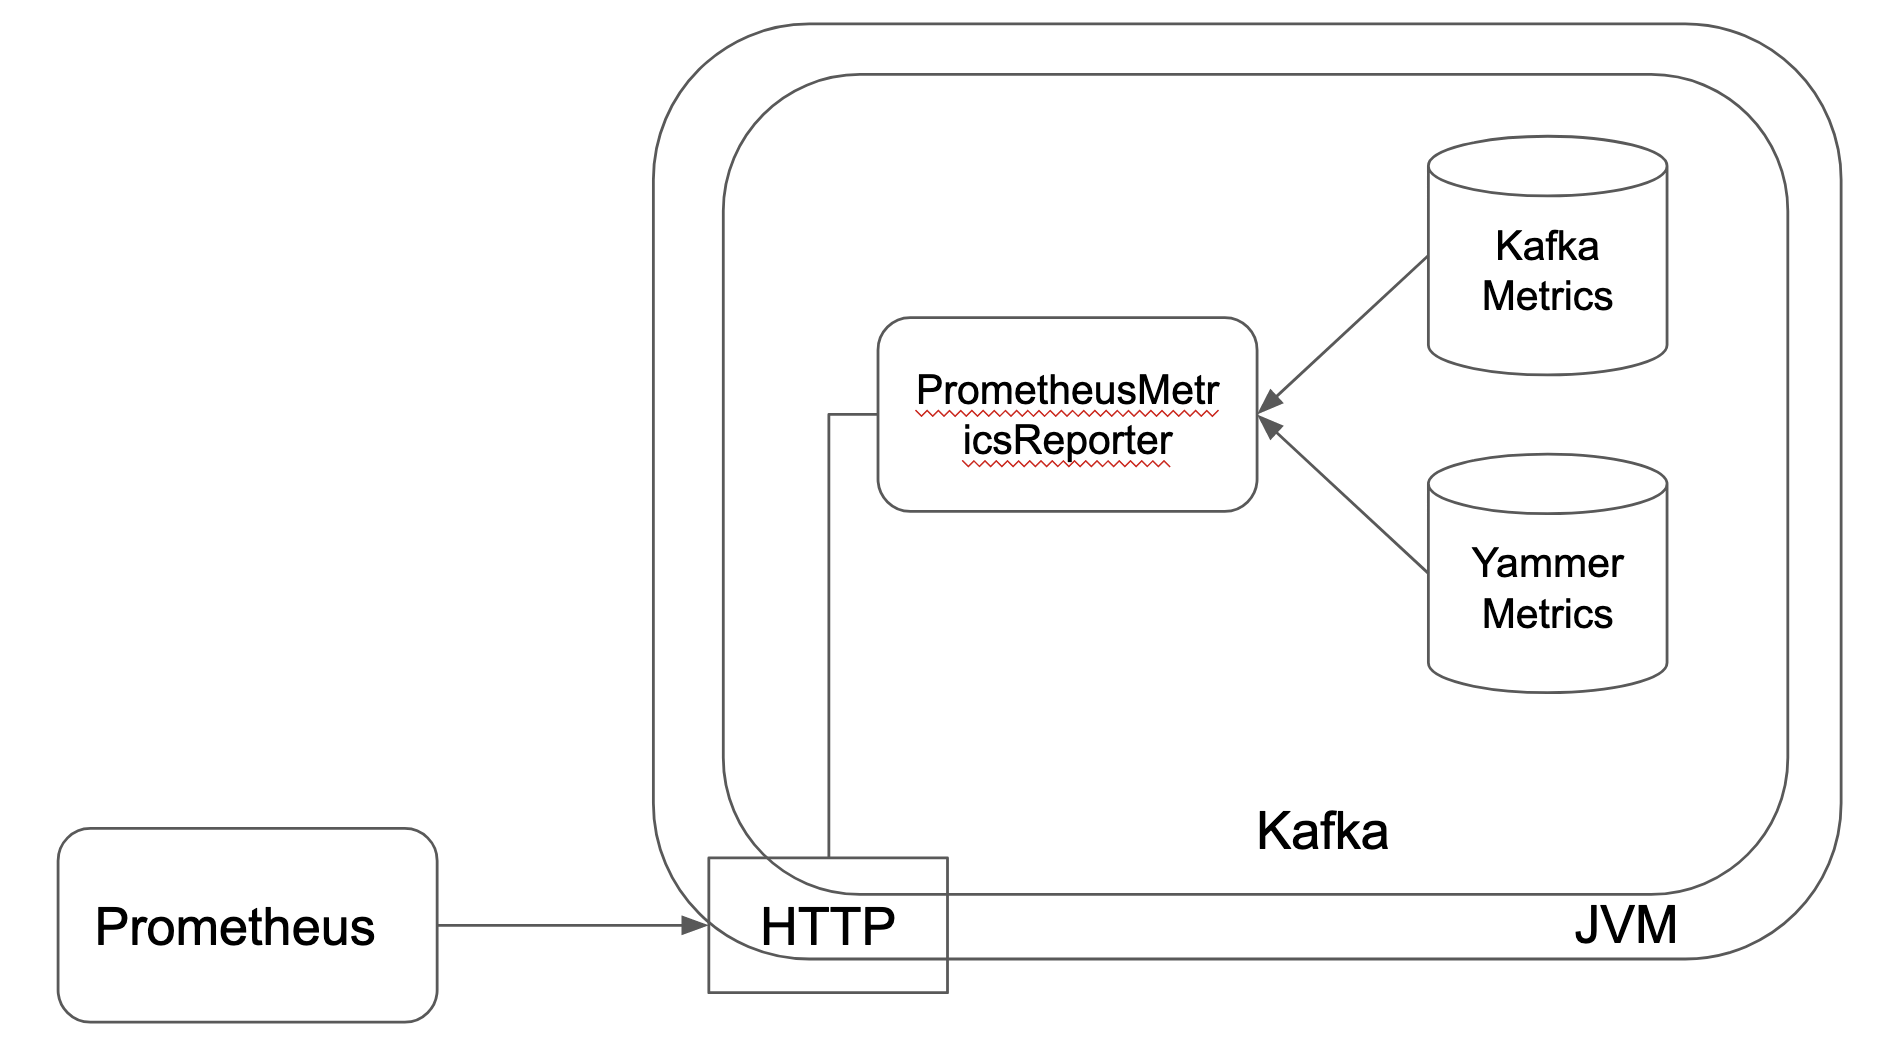
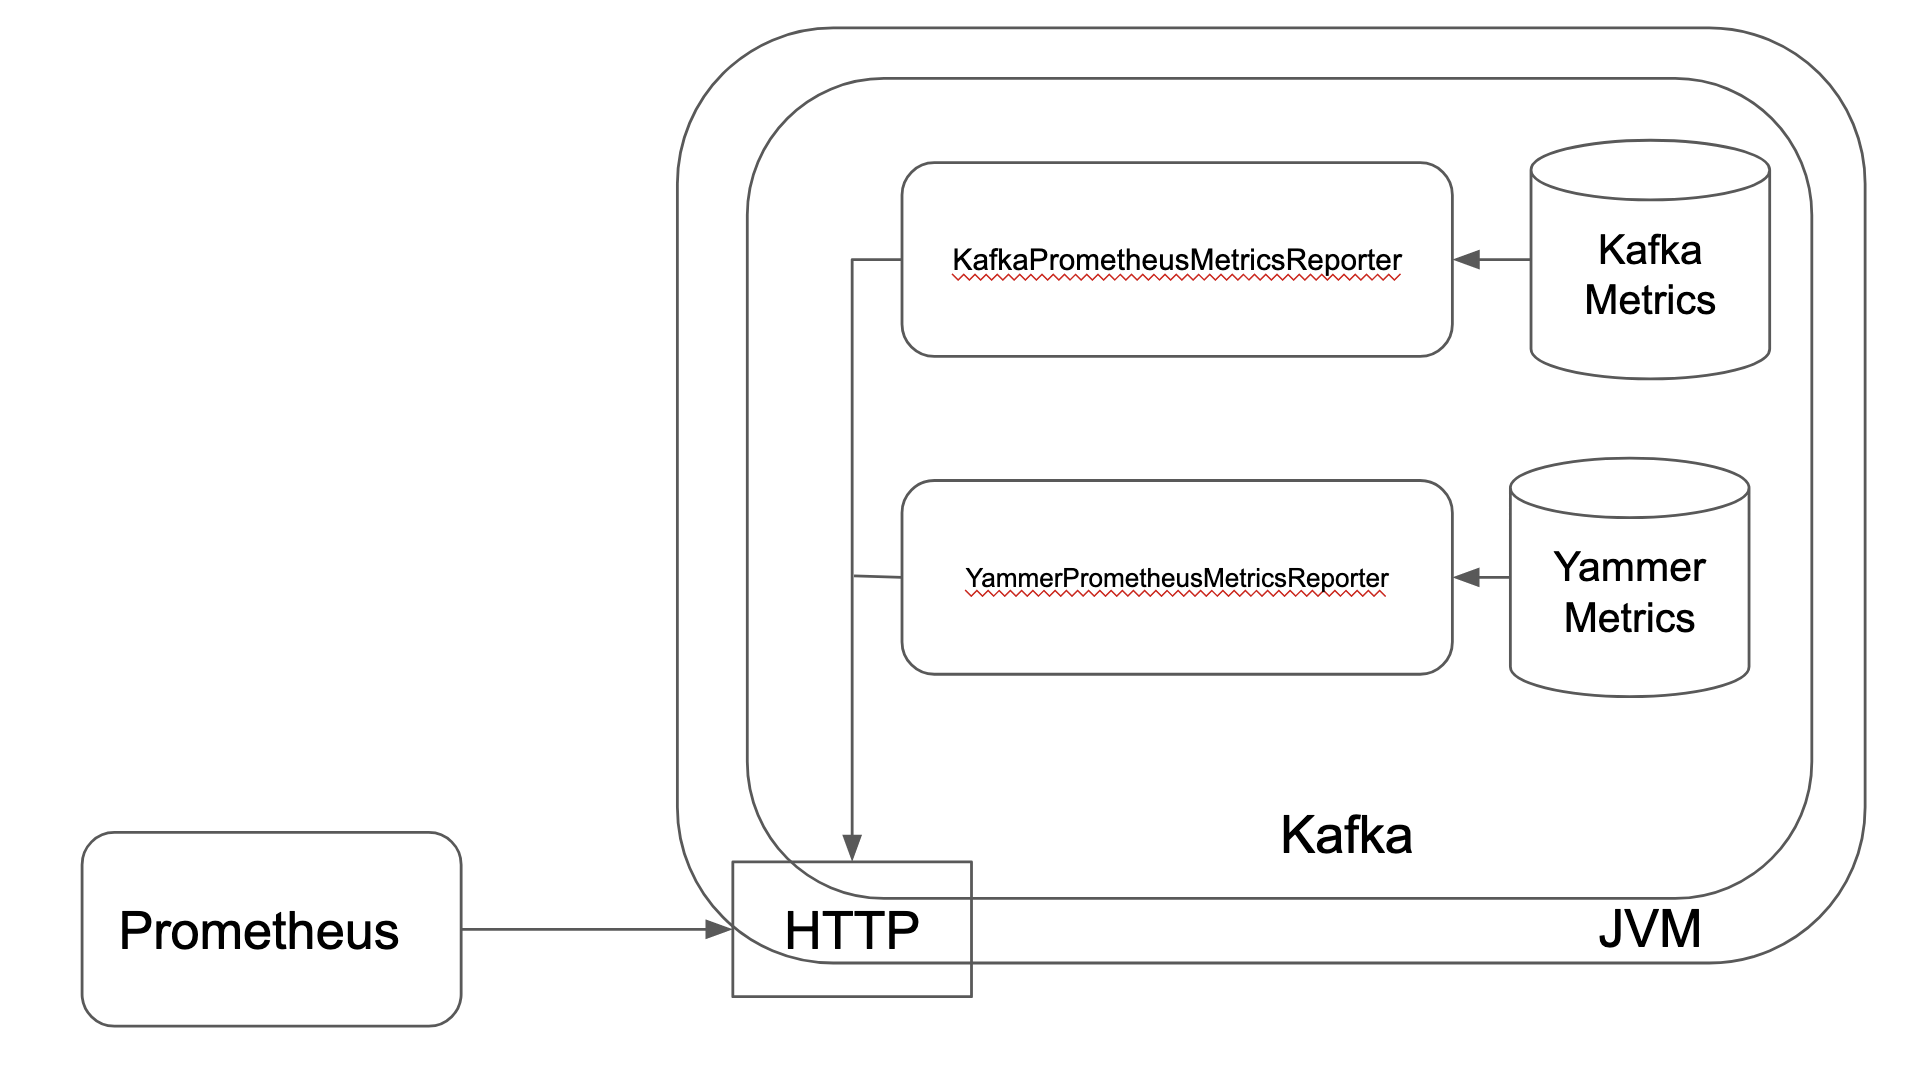
Address feedback from JS and KW

diff --git a/062-prometheus-metrics-reporter.md b/062-prometheus-metrics-reporter.md
@@ -11,11 +11,11 @@ Metrics are a critical aspect of monitoring Kafka. Today, this is the way metric
 - a home grown library, `org.apache.kafka.common.metrics`. We’ll refer to metrics created via this as _KafkaMetrics_. This is used on the client side and for common metrics on the server side too.
 - Yammer, `com.yammer.metrics.metrics-core`. This library is the predecessor of [Dropwizard](https://metrics.dropwizard.io/). We’ll refer to metrics created via this as _YammerMetrics_. This is only used on the broker side.
 
-For each type of metrics, Kafka exposes a reporter interface to expose metrics to monitoring systems. KafkaMetrics use [org.apache.kafka.common.metrics.MetricsReporter](https://kafka.apache.org/35/javadoc/org/apache/kafka/common/metrics/MetricsReporter.html) and YammerMetrics use `kafka.metrics.KafkaMetricsReporter` which is not officially part of the public API. Kafka has built-in metrics reporter implementations for JMX for both types.
+For each type of metrics, Kafka exposes a reporter interface to expose metrics to monitoring systems. KafkaMetrics use [org.apache.kafka.common.metrics.MetricsReporter](https://kafka.apache.org/36/javadoc/org/apache/kafka/common/metrics/MetricsReporter.html) and YammerMetrics use `kafka.metrics.KafkaMetricsReporter` which is not officially part of the public API. Kafka has built-in metrics reporter implementations for JMX for both types.
 
 At the moment Strimzi relies on these default JMX reporters and uses [jmx_exporter](https://github.com/prometheus/jmx_exporter) which is a Java agent that retrieves metrics via JMX and exposes them over an HTTP endpoint in the prometheus format. Then Prometheus is configured to scrape that endpoint to retrieve the Kafka metrics.
 
-![Current Situation](images/052-current.png)
+![Current Situation](images/062-current.png)
 
 - `org.apache.kafka.common.metrics.JmxReporter` is the reporter implementation for the Kafka Metrics.
 - `org.apache.kafka.server.metrics.FilteringJmxReporter` is the reporter implementation for the Yammer Metrics. It’s named `FilteringJmxReporter` because it extends the JmxReporter class from the Yammer library and adds an option to select the metrics to report.
@@ -26,16 +26,16 @@ At the moment Strimzi relies on these default JMX reporters and uses [jmx_export
 I propose updating the metrics collection pipeline for the following reasons:
 
 1. The current metrics collection pipeline is pretty convoluted. We have metrics reporters first exposing metrics via JMX before using a Java agent to expose them again via HTTP. Using metrics reporters to directly expose metrics to Prometheus would significantly simplify it by removing JMX from the picture and removing jmx_exporter.
-1. Each component along the pipeline has its own configurations and specificities. For example, since Kafka 3.4.0, it’s possible to disable the JmxReporter for KafkaMetrics by setting [auto.include.jmx.reporter](https://kafka.apache.org/documentation/#brokerconfigs_auto.include.jmx.reporter) to `false`. It is currently not possible to disable `FilteringJmxReporter` (it’s something I plan to address in the near future). Also both jmx_exporter and the built-in reporter allow selecting metrics to collect. 
-1. The jmx_exporter Java agent supports complex metrics mapping rules. These rules allow renaming metrics and it can make it hard to investigate issues as metrics could have different names. This prevents using metrics like an API, whether this is to build grafana dashboards or for the operator to rely on metrics.
-1. Due to the complex rules, it performs badly when there’s a very large number of metrics due to a lot of topic/partitions.
+2. Each component along the pipeline has its own configurations and specificities. For example, since Kafka 3.4.0, it’s possible to disable the JmxReporter for KafkaMetrics by setting [auto.include.jmx.reporter](https://kafka.apache.org/documentation/#brokerconfigs_auto.include.jmx.reporter) to `false`. It is currently not possible to disable `FilteringJmxReporter` (it’s something I plan to address in the near future). Also both jmx_exporter and the built-in reporter allow selecting metrics to collect.
+3. The jmx_exporter Java agent supports complex metrics mapping rules. These rules allow renaming metrics and it can make it hard to investigate issues as metrics could have different names. This prevents using metrics like an API, whether this is to build grafana dashboards or for the operator to rely on metrics.
+4. Due to the complex rules, it performs badly when there’s a very large number of metrics due to a lot of topic/partitions.
 
 
 ## Proposal
 
 The proposal is to build metrics reporters that directly exposes metrics via an HTTP endpoint in the Prometheus format. This will be a new project/repository under the Strimzi organization.
 
-![Proposal](images/052-proposal.png)
+![Proposal](images/062-proposal.png)
 
 Today to enable jmx_exporter, users use:
 ```
@@ -56,32 +56,58 @@ metricsConfig:
 ```
 
 Reporters will expose the following configurations:
-- `prometheus.metrics.reporter.port`: The HTTP port to expose the metrics. Default: `8080`
-- `prometheus.metrics.reporter.allowlist`: A comma separated list of regex patterns to specify the metrics to collect. Default: `.*`. The patterns must match the metric names emitted by the reporter.
+- `prometheus.metrics.reporter.port`: The HTTP port to expose the metrics. Default: `8080`. When set to `-1`, the reporter will not start the HTTP endpoint, this can be useful for applications embedding Kafka clients and that have their own mechanism to export metrics.
+- `prometheus.metrics.reporter.allowlist`: A comma separated list of regex patterns to specify the metrics to collect. Default: `.*`. Only metrics matching at least one of the patterns in the list will be emitted.
 
-Strimzi should set the port to 9404 to make the migration from jmx_exporter easy.
+Strimzi should set the port to 9404 to make the migration from jmx_exporter easy. It also helps to avoid conflicts with the Strimzi Kafka Agent currently using port 8080.
 
-The reporter will also export JVM metrics similar to the ones exported by jmx_exporter. These are provided by the [Hotspot exports](io.prometheus.client.hotspot) from the Prometheus Java client.
+The reporters will also export JVM metrics similar to the ones exported by jmx_exporter. These are provided by the [Hotspot exports](io.prometheus.client.hotspot) from the Prometheus Java client.
 
-This proposal ignores supporting HTTPS as today Strimzi does not allow configuring it with jmx_exporter. Note that jmx_exporter 0.19.0 added support for HTTPS. If needed we can add it now or later to the reporter.
+This proposal ignores supporting HTTPS as today Strimzi does not allow configuring it with jmx_exporter. Note that jmx_exporter 0.19.0 added support for HTTPS. If needed we can add it later to the reporters.
 
 This proposal will produce an implementation for each type of metrics reporter.
-- `KafkaPrometheusMetricsReporter` usable on brokers (for Kafka metrics) and on clients (including Connect and Streams)
+- `KafkaPrometheusMetricsReporter` usable on brokers (for Kafka metrics) and on Kafka clients (including Connect and Streams)
 - `YammerPrometheusMetricsReporter` usable on brokers (for Yammer metrics)
 
-The Prometheus metrics registry is a singleton and the HTTP server will also be a singleton. This will allow applications to start multiple instances of the reporter (for example in applications containing multiple Kafka clients like Streams, Connect, Strimzi HTTP bridge, or in application loading plugins like the OAuth plugin that instance their own reporter instances), and still collect all metrics via a single HTTP endpoint per JVM. 
+The Prometheus metrics registry is a singleton and the HTTP server will also be a singleton. This will allow applications to start multiple instances of the reporter (for example in applications containing multiple Kafka clients like Streams, Connect), and still collect all metrics via a single HTTP endpoint per JVM.
 
-The reporter for Kafka metrics will be usable outside of Strimzi by clients. To do so they will need to set the `metric.reporters` configuration to `KafkaPrometheusMetricsReporter` and set the reporter configurations accordingly.
+The reporter for Kafka metrics will be usable outside of Strimzi by applications using Kafka clients. To do so applications will need to set the `metric.reporters` configuration to `KafkaPrometheusMetricsReporter` and set the reporter configurations accordingly for each Kafka client they instantiate.
+
+### Handling of non-numeric metrics
+
+Out of all the metrics emitted by Kafka brokers and clients, a few of them have non-numeric values. Prometheus only supports numeric values for metrics. When using jmx_exporter it is possible to write rules that move the non-numeric value to a label. For example we do it in [kafka-connect-metrics](https://github.com/strimzi/strimzi-kafka-operator/blob/main/packaging/examples/metrics/kafka-connect-metrics.yaml#L103-L111) for the `status` metrics which has a string value.
+
+I propose to do this automatically in the reporters. For example a metric named: `kafka.connect:type=connector-task-metrics,connector="{connector}",task="{task}"<>status` with the value `running` will be converted into `kafka_connect_connector_task_metrics_status{connector="heartbeats",task="0",status="running"}` and its value will be set to `1.0`.
 
 ## Affected/not affected projects
 
-This affects `strimzi-kafka-operator `. Reporters are not usable with ZooKeeper and currently don't work well with client side application like Kafka Connect, MirrorMaker and the HTTP bridge. So Strimzi should keep support for jmx_exporter. We may reconsider dropping support once ZooKeeper is not supported anymore and if improvements in Apache Kafka make reporters usable with client side applications.
+The reporter will be a new project, `strimzi-metrics-reporter`. It will be used by Strimzi components but should also be usable without Strimzi, for example in client side applications.
 
-The reporter will be a new project and should be usable without Strimzi. As it's new code, it should be first release as a preview feature (disabled by default). Once KRaft becomes the preferred deployment option, we should make the reporter the recommended option to expose metrics for brokers and controllers.
+### strimzi-kafka-operator
 
-In `strimzi-kafka-operator`, we will need new examples demonstrating how to use the reporter, new grafana dashboards with metric names from the reporter.
+Reporters are not usable with ZooKeeper so Strimzi should keep support for jmx_exporter while it also supports ZooKeeper. As it's new code, reporters should first be released as a preview feature and disabled by default. Once KRaft becomes the preferred deployment option and the, we should make the reporter the recommended and default option to collect metrics over jmx_exporter.
 
-The OAuth plugin can be updated to rely on this reporter. Note that this will still be a workaround (like the current mechanism it uses to exports its metrics today) and that a much better approach for plugins to expose metrics will be provided by [KIP-877](https://cwiki.apache.org/confluence/display/KAFKA/KIP-877%3A+Mechanism+for+plugins+and+connectors+to+register+metrics).
+We will need new examples demonstrating how to use the reporters, new grafana dashboards with metric names from the reporters.
+
+### strimzi-kafka-oauth
+
+The OAuth plugin exposes the `strimzi.oauth.metric.reporters` configuration to let users specify a metrics reporter. Today the OAuth plugin automatically uses `org.apache.kafka.common.metrics.JmxReporter` if that configuration is not set. To switch to the new reporter, users should set `strimzi.oauth.metric.reporters` to `KafkaPrometheusMetricsReporter`. Once the reporter becomes the preferred option, the OAuth plugin should be updated to automatically use `KafkaPrometheusMetricsReporter` if no metrics reporters are set by users.
+
+Note that directly instantiating metric reporters in the plugin is a workaround as Kafka currently does not provide a way for plugins to register metrics. [KIP-877](https://cwiki.apache.org/confluence/display/KAFKA/KIP-877%3A+Mechanism+for+plugins+and+connectors+to+register+metrics), currently in discussion, aims at solving this issue. Once this KIP is accepted, we should update the plugin to use this mechanism.
+
+### strimzi-kafka-bridge
+
+To function, the bridge instantiates Kafka clients. Today it has its own custom mechanism to retrieve metrics from the Kafka clients via JMX and expose them to Prometheus.
+
+We can update the bridge to use metric reporters to retrieve metrics from Kafka clients and still keep it's own mechanism to expose them to Prometheus (as it's also exposing its own metrics). To switch behavior, I propose introducing a new configuration to the bridge `metricsMode`/`KAFKA_BRIDGE_METRICS_MODE` which would initially default to `jmx` to keep the current behavior. If set to `reporter`, the bridge would set the `metric.reporters` configuration to all Kafka clients it starts to `KafkaPrometheusMetricsReporter` and retrieve their metrics via the Prometheus metrics registry. It should also set `prometheus.metrics.reporter.port` to `-1` so `KafkaPrometheusMetricsReporter` instances don't start their own HTTP endpoint.
+
+### kafka-quotas-plugin
+
+This plugin creates metrics by using the Yammer metrics library. `com.yammer.metrics.Metrics` registers metrics in the default Yammer registry and automatically exports metrics via JMX.
+
+Like strimzi-kafka-oauth, this plugin should be updated once [KIP-877](https://cwiki.apache.org/confluence/display/KAFKA/KIP-877%3A+Mechanism+for+plugins+and+connectors+to+register+metrics) is available in Kafka. 
+
+In the meantime, `YammerPrometheusMetricsReporter` will retrieve metrics from both the Kafka Yammer registry and the default Yammer registry to get all Yammer metrics.
 
 ## Compatibility
 
@@ -89,7 +115,7 @@ Differences with jmx_exporter metrics:
 
 - The reporter does not compute 1/5/15 minute rate, mean, max, min, stddev metrics. It's preferable to compute them in Prometheus instead of on the client side.
 - The reporter is missing the `kafka_server_app_info_starttimems` metric with the client/broker id label. (Due to [KAFKA-15186](https://issues.apache.org/jira/browse/KAFKA-15186))
-- Kafka expose some non-numeric metrics. Prometheus only supports numeric values for metrics. Using jmx_exporter it's possible with rules to move the values into labels and still retrieve them in prometheus. With this proposal non-numeric metrics will be ignored and not exposed. I plan to raise a KIP in Kafka to provide alternative to non-numeric metrics. For example there is already [KIP-972](https://cwiki.apache.org/confluence/display/KAFKA/KIP-972%3A+Add+the+metric+of+the+current+running+version+of+kafka) in progress to address some of them.
+- Kafka exposes some non-numeric metrics. Prometheus only supports numeric values for metrics. Using jmx_exporter it's possible with rules to move the values into labels and still retrieve them in prometheus. With this proposal non-numeric metrics will be ignored and not exposed. I plan to raise a KIP in Kafka to provide alternative to non-numeric metrics. For example there is already [KIP-972](https://cwiki.apache.org/confluence/display/KAFKA/KIP-972%3A+Add+the+metric+of+the+current+running+version+of+kafka) in progress to address some of them.
 
 Assuming jmx_exporter does not have any rules, this is the other main metric change:
 
@@ -122,7 +148,7 @@ If we also remove the values, doing a diff highlights the following differences:
     ```
     This is expected as JMX is not used with the reporter.
 
-- Via JMX a number of `java_lang` metrics are emitted. These are not retrieved by Prometheus Hotspot exports.
+- With JMX a number of `java_lang` metrics are emitted. These are not retrieved by Prometheus Hotspot exports.
 
 - The `PerSec` suffix is removed by jmx_exporter rules so a few metrics have slightly different names, for example:
     ```
